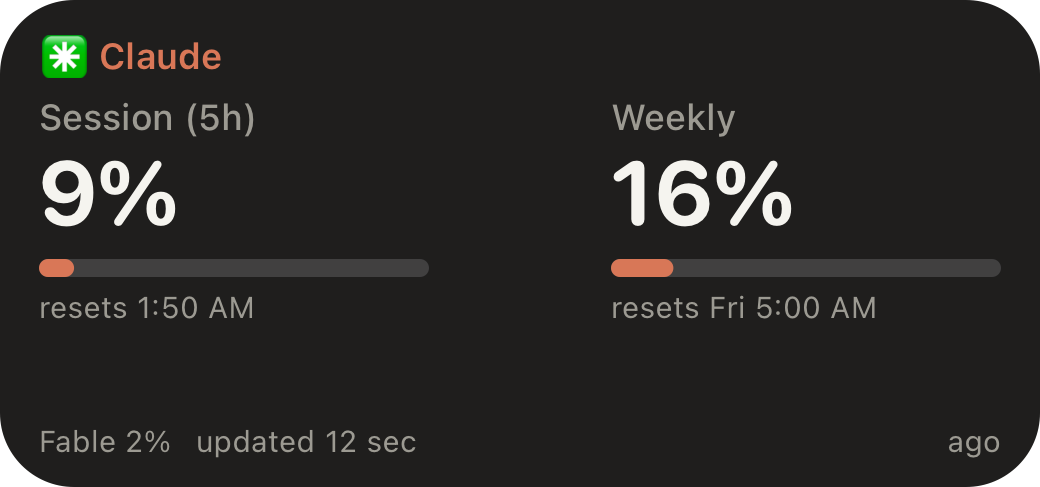
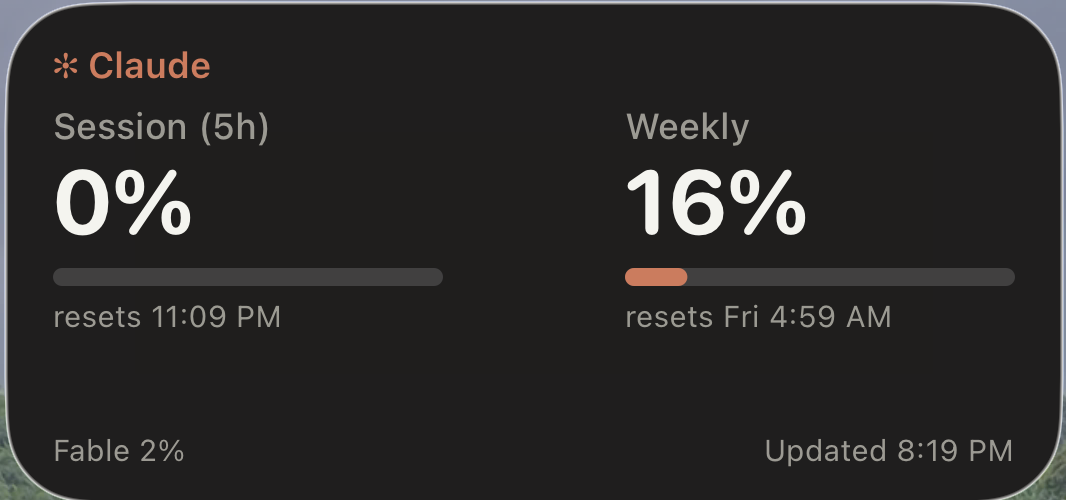
Update claude widget screenshot and copy

diff --git a/data/projects.js b/data/projects.js
@@ -49,13 +49,13 @@ export const projects = {
     slug: "claude-widget",
     title: "claude usage widget",
     summary: "An iPhone widget that shows how much of my Claude session (5h) and weekly limits I've used, so I can check without opening anything.",
-    notes: "a swiftbar plugin on my mac writes the usage to a json file in icloud drive every 5 minutes, and a scriptable widget on my phone reads it. bars turn amber at 70% and red at 90%, and it warns you if the mac hasn't updated in 30 minutes. comes in small, medium, and lock screen sizes.",
+    notes: "a swiftbar plugin on my mac writes the usage to a json file in icloud drive every 5 minutes, and a scriptable widget on my phone reads it. bars turn amber at 70% and red at 90%, it remembers the last reading if the mac or icloud is offline, shows when it last updated, and warns you if that's over 30 minutes old. comes in small, medium, and lock screen sizes.",
     github: "https://github.com/ishaanzee/claude-usage-widget",
     cover: "/projects/claude-widget/widget.png",
     media: [
       {
         src: "/projects/claude-widget/widget.png",
-        caption: "the medium widget on my home screen: 9% of the 5 hour session and 16% of the weekly limit used, plus the per-model weekly number at the bottom.",
+        caption: "the medium widget on my home screen: the 5 hour session just reset to 0%, 16% of the weekly limit used, plus the per-model weekly number and last updated time at the bottom.",
       },
     ],
   },
